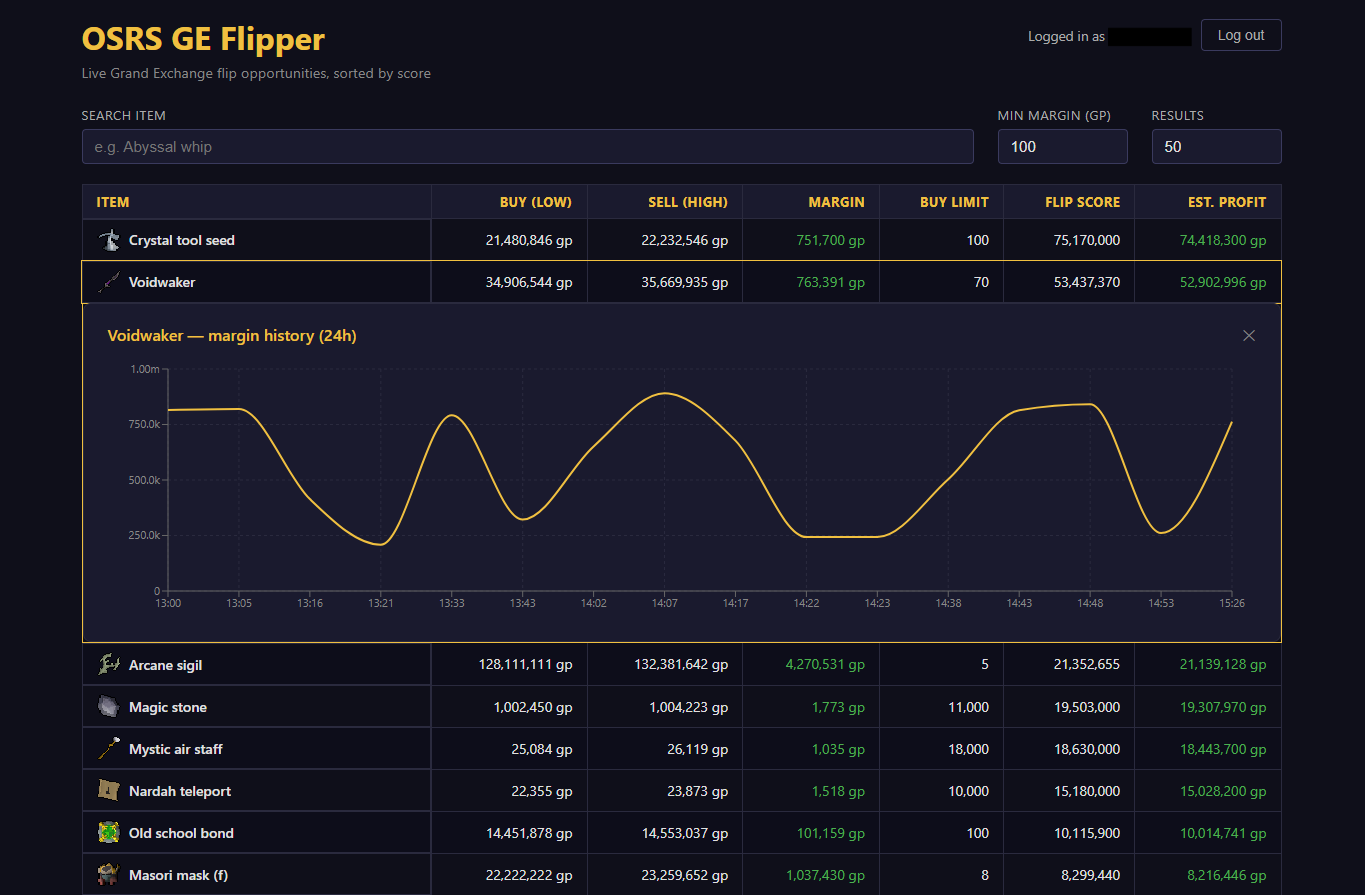
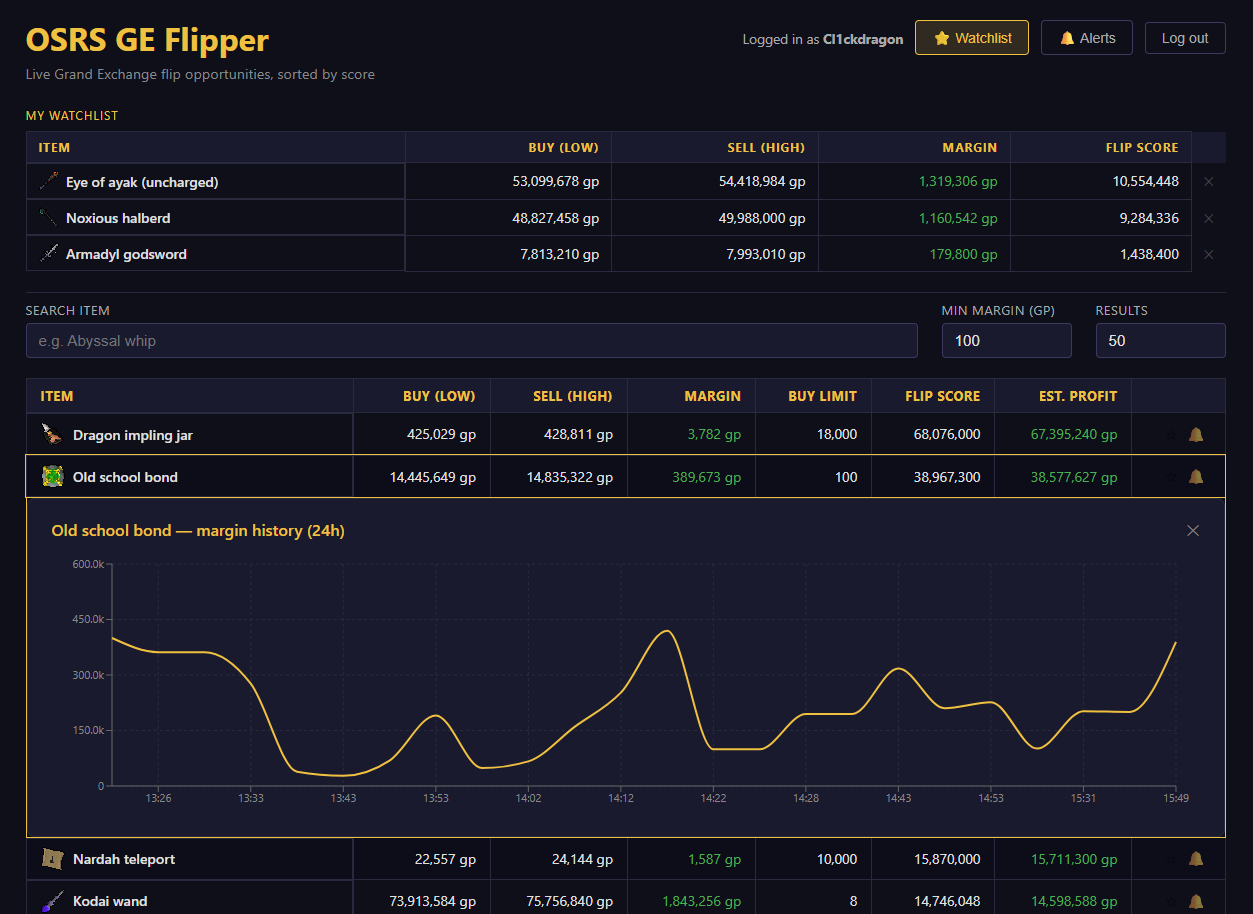
Updated README

diff --git a/README.md b/README.md
@@ -1,21 +1,29 @@
 # OSRS GE Flipper
 
-A full-stack web app that surfaces the best Grand Exchange flipping opportunities in Old School RuneScape. Live prices are fetched from the [OSRS Wiki API](https://prices.runescape.wiki/api/v1/osrs), scored by flip potential, and updated every 5 minutes.
+A full-stack Grand Exchange flipping assistant for Old School RuneScape. Live prices are fetched from the [OSRS Wiki Prices API](https://prices.runescape.wiki/api/v1/osrs), scored by flip potential, and updated every 5 minutes — giving players an edge in identifying profitable trades in real time.
 
 **[Live demo →](https://osrs-ge-flipper.onrender.com)**
 
-![OSRS GE Flipper screenshot](docs/screenshot.png)
+![OSRS GE Flipper](docs/screenshot.png)
 
 ---
 
 ## Features
 
-- **Live flip scores** — margin × buy limit, calculated from 5-minute volume-weighted average prices (not single-transaction outliers)
-- **Price history charts** — click any item to see its margin trend over the last 24 hours
-- **Full-item search** — search across the entire OSRS item catalogue, not just the top results
-- **JWT authentication** — register, log in, and receive a signed token
-- **Rate limiting** — login capped at 5 attempts/min per IP, register at 3, via token-bucket algorithm
-- **Item icons** — pulled directly from the OSRS Wiki
+### Market data
+- **Live flip scores** — every item ranked by `margin × buy limit`, using 5-minute volume-weighted average prices rather than single-transaction outliers
+- **Price history charts** — click any item to see its margin trend over the last 24 hours, powered by a background job that snapshots the top 100 items every 5 minutes
+- **Full-catalogue search** — debounced search across the entire OSRS item catalogue; matching items are pinned above the main rankings so you always see both your result and the wider market
+
+### Accounts
+- **JWT authentication** — register and log in; tokens are signed with HMAC-SHA256 and validated stateless on every request
+- **Watchlist** — save items to a personal list; current prices are enriched on every fetch so your watchlist is always live
+- **Price alerts** — set a margin target for any item; the snapshot job checks all active alerts after each run and marks any that have been hit; triggered alerts surface as a notification badge and can be dismissed or deleted without losing the alert
+
+### Security & quality
+- **Rate limiting** — login capped at 5 attempts per minute per IP, register at 3, using the token-bucket algorithm (Bucket4j)
+- **Input validation** — all request bodies validated with Jakarta Bean Validation before reaching service logic
+- **User-scoped data** — watchlist and alert endpoints are JWT-protected; all queries are scoped to the authenticated user, preventing cross-user data access
 
 ---
 
@@ -24,21 +32,25 @@ A full-stack web app that surfaces the best Grand Exchange flipping opportunitie
 | Layer | Technology |
 |---|---|
 | Backend | Java 21, Spring Boot 3.2 |
-| Database | PostgreSQL 16 + Flyway migrations |
-| Auth | JWT (HMAC-SHA256) via Spring Security OAuth2 Resource Server |
+| Database | PostgreSQL 16, Flyway migrations |
+| Auth | JWT / HMAC-SHA256, Spring Security OAuth2 Resource Server |
 | Rate limiting | Bucket4j (token bucket, in-memory) |
+| Scheduler | Spring `@Scheduled` |
 | Frontend | React 18, TypeScript, Vite |
 | Charts | Recharts |
 | API docs | OpenAPI 3 / Swagger UI |
-| DevOps | Docker, Docker Compose, GitHub Actions CI |
+| CI/CD | GitHub Actions |
+| Containers | Docker, Docker Compose |
 | Deployment | Render |
 
 ---
 
 ## Quick start
 
+Requires [Docker Desktop](https://www.docker.com/products/docker-desktop).
+
 ```bash
-git clone https://github.com/your-username/osrs-ge-flipper.git
+git clone https://github.com/Cl1ckDragon/osrs-ge-flipper.git
 cd osrs-ge-flipper
 cp .env.example .env
 docker compose up --build
@@ -50,7 +62,7 @@ docker compose up --build
 | Backend API | http://localhost:8080 |
 | Swagger UI | http://localhost:8080/swagger-ui.html |
 
-> Requires [Docker Desktop](https://www.docker.com/products/docker-desktop). No other local dependencies needed.
+No other local dependencies required — the database, backend, and frontend all run in containers.
 
 ---
 
@@ -60,47 +72,69 @@ docker compose up --build
 Browser
   │
   ▼
-nginx (frontend container)
-  │  serves static React build
-  │  proxies /api/* → backend
+nginx  ──  serves React build
+  │        proxies /api/* → backend
   ▼
-Spring Boot (backend container)
-  │  GET /api/prices          — live flip opportunities
-  │  GET /api/prices/search   — full-catalogue item search
-  │  GET /api/prices/history  — 24h margin history
-  │  POST /api/auth/register  — create account
-  │  POST /api/auth/login     — issue JWT
+Spring Boot
+  │
+  ├── GET  /api/prices                 live flip opportunities (public)
+  ├── GET  /api/prices/search          full-catalogue item search (public)
+  ├── GET  /api/prices/history/:id     24h margin history (public)
+  ├── POST /api/auth/register          create account
+  ├── POST /api/auth/login             issue JWT
+  ├── GET/POST/DELETE /api/watchlist   saved items (JWT required)
+  └── GET/POST/DELETE/PATCH /api/alerts  price alerts (JWT required)
+  │
   ▼
 PostgreSQL
-  │  users
-  └  price_snapshots (written every 5 min by @Scheduled job)
+  ├── users
+  ├── price_snapshots   ← written every 5 min by @Scheduled job
+  ├── watchlist_items
+  └── price_alerts      ← checked against live prices on each snapshot
 ```
 
-The backend is intentionally layered — controllers are thin, business logic lives in services, and the `FlipScoreCalculator` is a pure component with no Spring dependencies so it can be unit tested directly without mocking.
+The backend follows a deliberate layered architecture: controllers are thin (validation and HTTP only), business logic lives in services, and the `FlipScoreCalculator` is a pure `@Component` with no Spring dependencies — making it directly unit-testable without mocking.
 
 ---
 
-## API docs
+## Database migrations
 
-Swagger UI is available at `/swagger-ui.html` on both local and the deployed backend:
+Schema is managed by Flyway and applied automatically on startup:
+
+| Migration | Description |
+|---|---|
+| `V1` | `price_snapshots` table |
+| `V2` | `users` table |
+| `V3` | `watchlist_items` and `price_alerts` tables |
+
+---
+
+## API documentation
+
+Interactive Swagger UI — try every endpoint directly from the browser:
 
 **[https://osrs-ge-flipper-api.onrender.com/swagger-ui.html](https://osrs-ge-flipper-api.onrender.com/swagger-ui.html)**
 
 ---
 
-## Running tests
+## Testing
 
 ```bash
-cd backend
-mvn test
+cd backend && mvn test
 ```
 
-Covers: flip score calculation (unit), price service filtering and sort order (Mockito), user registration and login including a security test that verifies both failure modes return the same error message to prevent username enumeration, and rate limiter bucket behaviour per IP.
+| Test class | What it covers |
+|---|---|
+| `FlipScoreCalculatorTest` | Score formula, GE tax, integer overflow with large values (7 tests) |
+| `PriceServiceTest` | Sort order, margin filter, null price handling, buy limit filter, limit cap, missing mappings (6 tests) |
+| `UserServiceTest` | Register/login happy paths, conflict detection, BCrypt hashing verified via `ArgumentCaptor`, dedicated security test asserting both login failure modes return identical messages to prevent username enumeration (8 tests) |
+| `AuthRateLimitInterceptorTest` | Bucket capacity per endpoint, independent buckets per IP, `X-Forwarded-For` header handling, non-auth paths unaffected (5 tests) |
 
 ---
 
 ## Known limitations
 
-- **Rate limiting is in-memory** — buckets reset on restart and are not shared across multiple instances. A Redis-backed store would be needed for a multi-instance deployment.
-- **Render free tier cold starts** — the backend spins down after 15 minutes of inactivity. First request after sleep takes ~30 seconds.
-- **Price snapshots require uptime** — history charts only show data from when the app has been running. Snapshots are not backfilled on startup.
+- **Rate limiting is in-memory** — token buckets reset on restart and are not shared across instances. Bucket4j has built-in Redis support for a production multi-instance deployment.
+- **Alert delivery is in-app only** — triggered alerts surface in the UI. Email or push notification delivery is not implemented.
+- **Render free tier cold starts** — the backend spins down after 15 minutes of inactivity; the first request after sleep takes ~30 seconds.
+- **Price snapshots require uptime** — history charts only reflect periods when the app was running. There is no historical backfill on startup.
